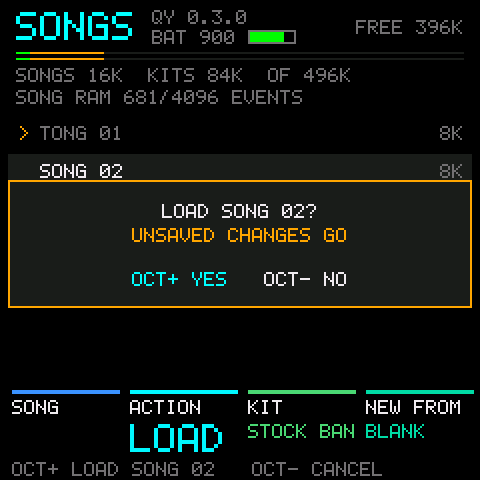
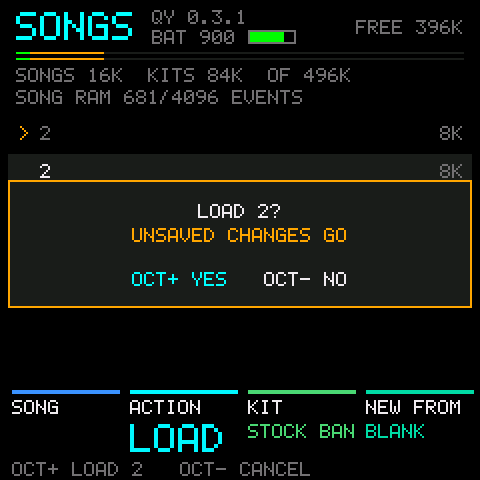
0.3.1: new songs are named with the lowest free number
A new song starts as "1", "2", "3" and so on (the lowest number no saved
song uses) instead of NEW SONG, so renaming it means changing one letter.
SAVE AS and DUPLICATE of a song still named with a number take the next
free one. The boot screen check allows a narrow last digit.

Host 7,780 checks, preview 557 checks. Default 453,480 bytes (unchanged),
full 520,584 of 548,129.

Claude-Session: https://claude.ai/code/session_01Y9zi29XiKJp4ggRWq3oYqN

diff --git a/app/song/song_store.c b/app/song/song_store.c
@@ -25,6 +25,8 @@ static struct kit_import import;
 static struct song_recovery recovery;
 static unsigned kit_id, importing, waiting, was_playing, bank_crc_for, baseline;
 static uint32_t bank_crc, checked_at;
+static int default_name(const char name[12]);
+static void next_number(char name[12]);
 
 /* The sounds block: the 8 sound setups, mute and solo, the shared effects,
  * the arpeggiators and the tuning, as the stock project holds them. */
@@ -144,11 +146,7 @@ SONG_SMALL int song_store_save(unsigned as_new)
     struct song *s = song_port_song();
     if (song_port_player()->playing) return SONG_STORE_PLAYING;
     unsigned id = as_new || !s->id ? pool_next_id(&pool, POOL_SONG) : s->id;
-    if (!s->name[0] || (as_new && !memcmp(s->name, "SONG ", 5))) { /* a default name follows the slot */
-        memcpy(s->name, "SONG        ", 12);
-        s->name[5] = (char)('0' + id / 10U % 10U);
-        s->name[6] = (char)('0' + id % 10U);
-    }
+    if (!s->name[0] || (as_new && default_name(s->name))) next_number(s->name); /* a default name stays a free number */
     capture();
     programs(s);
     uint16_t before = s->id;
@@ -193,7 +191,7 @@ SONG_SMALL int song_store_new(int factory)
     song_clear(s, 8, 12000);
     s->undo = undo;
     song_undo_init(undo);
-    memcpy(s->name, "NEW SONG    ", 12);
+    next_number(s->name); /* quick to rename */
     const char *name = factory >= 0 ? groove_factory_name((unsigned)factory) : NULL;
     if (name) memset(s->name, ' ', 12);
     for (unsigned i = 0; name && name[i] && i < 12; ++i) s->name[i] = name[i];
@@ -244,9 +242,12 @@ SONG_SMALL int song_store_duplicate(unsigned id)
 {
     char name[13] = {0};
     song_store_name(id, name);
-    unsigned length = (unsigned)strlen(name);
-    while (length < 10) name[length++] = ' ';
-    name[10] = ' '; name[11] = '2';
+    if (default_name(name)) next_number(name); /* a numbered song's copy takes the next number */
+    else {
+        unsigned length = (unsigned)strlen(name);
+        while (length < 10) name[length++] = ' ';
+        name[10] = ' '; name[11] = '2';
+    }
     return song_port_player()->playing ? SONG_STORE_PLAYING : copy_song(id, pool_next_id(&pool, POOL_SONG), name);
 }
 SONG_SMALL int song_store_delete(unsigned id)

diff --git a/app/version.h b/app/version.h
@@ -5,6 +5,6 @@
 #define FM1_RELEASE_VERSION "V14"
 #define FM1_UPDATE_PRODUCT "FM-1_8000014"
 /* song-mode: this fork's release (semver). The two above are FM1 Open's upstream base. */
-#define FM1_QY_VERSION "0.3.0"
+#define FM1_QY_VERSION "0.3.1"
 
 #endif

diff --git a/docs/user-guide.md b/docs/user-guide.md
@@ -296,8 +296,8 @@ What YES does:
 |---|---|
 | LOAD | Loads the picked song. With unsaved changes it asks first (`LOAD VERSE? UNSAVED CHANGES GO`) |
 | SAVE | Saves the song being worked on |
-| SAVE AS | Saves it as a new song |
-| NEW | Starts a new song from K4's pick, not saved yet. With unsaved changes it asks first |
+| SAVE AS | Saves it as a new song. A song still named with a number gets the next free one |
+| NEW | Starts a new song from K4's pick, not saved yet, named with the lowest number no saved song uses (1, 2, 3 and so on), so renaming it is quick. With unsaved changes it asks first |
 | RENAME | Names the picked song: K1 or SELECT picks the letter, K2 changes it, YES keeps the name, NO leaves the old one |
 | DUPLICATE | Copies the picked song |
 | DELETE | Asks (`DELETE VERSE?`), then deletes |

diff --git a/CHANGELOG.md b/CHANGELOG.md
@@ -2,6 +2,11 @@
 
 The version is `FM1_QY_VERSION` in `app/version.h` (semver), and each release is tagged `v<version>`.
 
+## 0.3.1
+
+- A new song is named with the lowest number no saved song uses (1, 2, 3 and so on) instead of NEW SONG, so renaming
+  it is quick. SAVE AS and DUPLICATE of a song still named with a number take the next free one.
+
 ## 0.3.0
 
 - SAVE opens the song list, and SAVE there saves, so a save is SAVE, SAVE. HOME+SAVE and SHIFT+HOME+SAVE still undo and
